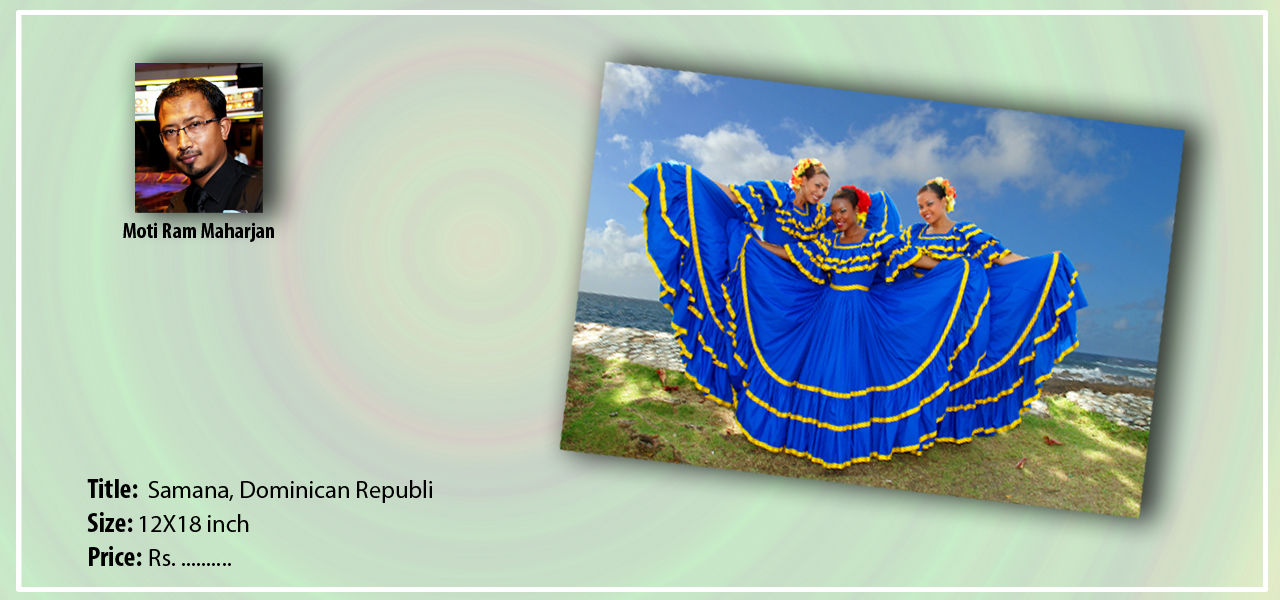
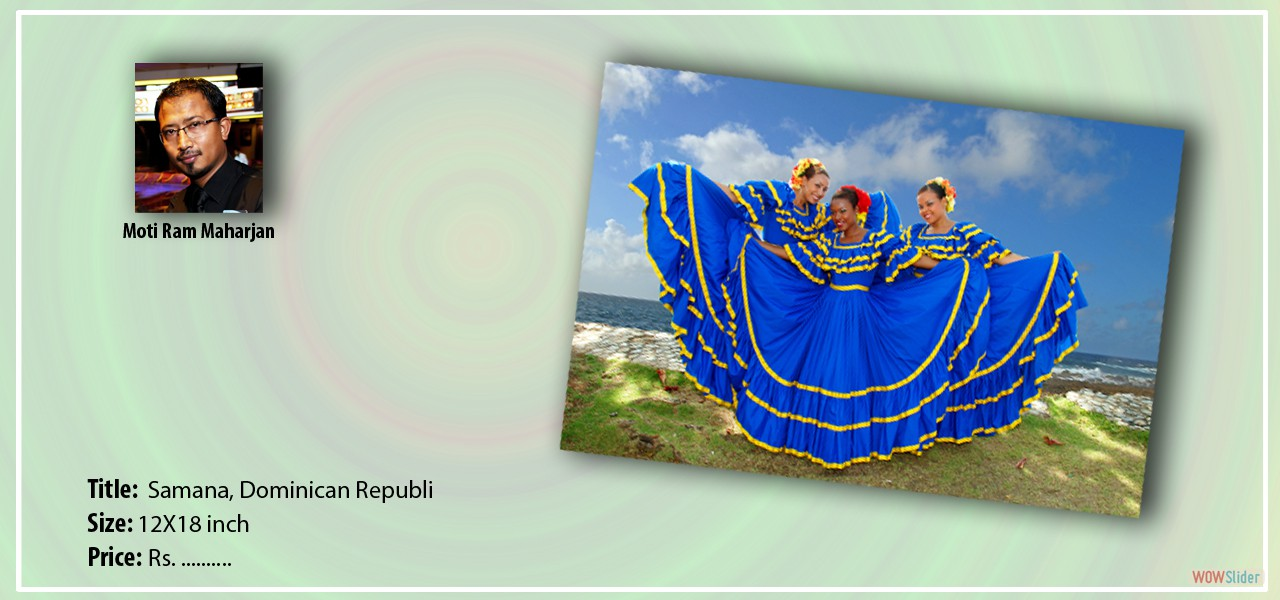
Art
photo

diff --git a/engine1/style.css b/engine1/style.css
@@ -4,12 +4,12 @@
  */
 @import url(https://fonts.googleapis.com/css?family=Oranienbaum&subset=latin,latin-ext,cyrillic);
 #wowslider-container1 { 
-	display: block;
+	display: table;
 	zoom: 1; 
 	position: relative;
 	width: 100%;
-	max-width: 100%;
-	max-height:none;
+	max-width: 1280px;
+	max-height:600px;
 	margin:0px auto 0px;
 	z-index:90;
 	text-align:left; /* reset align=center */
@@ -51,8 +51,8 @@
 	left:0;
 	top:0;
 	height:100%;
-	max-height:none;
-	max-width: 100%;
+	max-height:600px;
+	max-width: 1280px;
 	vertical-align: top;
 	border:none;
 	overflow: hidden;
@@ -60,7 +60,7 @@
 #wowslider-container1 .ws_images ul a{
 	width:100%;
 	height:100%;
-	max-height:none;
+	max-height:600px;
 	display:block;
 	color:transparent;
 }
@@ -76,7 +76,7 @@
 	margin:0;
 }
 #wowslider-container1 .ws_images > div > img {
-	max-height:none;
+	max-height:600px;
 }
 
 #wowslider-container1 .ws_images iframe {
@@ -310,6 +310,22 @@
 @-moz-keyframes wsBasic{0%{left:-0%} 5%{left:-0%} 10%{left:-100%} 15%{left:-100%} 20%{left:-200%} 25%{left:-200%} 30%{left:-300%} 35%{left:-300%} 40%{left:-400%} 45%{left:-400%} 50%{left:-500%} 55%{left:-500%} 60%{left:-600%} 65%{left:-600%} 70%{left:-700%} 75%{left:-700%} 80%{left:-800%} 85%{left:-800%} 90%{left:-900%} 95%{left:-900%} }
 @-webkit-keyframes wsBasic{0%{left:-0%} 5%{left:-0%} 10%{left:-100%} 15%{left:-100%} 20%{left:-200%} 25%{left:-200%} 30%{left:-300%} 35%{left:-300%} 40%{left:-400%} 45%{left:-400%} 50%{left:-500%} 55%{left:-500%} 60%{left:-600%} 65%{left:-600%} 70%{left:-700%} 75%{left:-700%} 80%{left:-800%} 85%{left:-800%} 90%{left:-900%} 95%{left:-900%} }
 
+#wowslider-container1 .ws_cover{
+	left:0;
+	top:0;
+	bottom:0;
+	right:0;
+	border: 7px solid #FFFFFF;
+	width: auto !important;
+	height: auto !important;
+	background: transparent !important;
+	opacity: 0.4 !important;
+	filter:progid:DXImageTransform.Microsoft.Alpha(opacity=40);
+}
+* html #wowslider-container1 .ws_cover{
+	width:$FrameW$px;
+	height:$FrameH$px;
+}
 #wowslider-container1 .ws_bullets  a img{
 	text-indent:0;
 	display:block;

diff --git a/wowslider-howto.html b/wowslider-howto.html
@@ -114,7 +114,7 @@
 		<li><img src="data1/images/a6.jpg" alt="Florence, Italy" title="Florence, Italy" id="wows1_5"/></li>
 		<li><img src="data1/images/a7.jpg" alt="Havana, Cuba" title="Havana, Cuba" id="wows1_6"/></li>
 		<li><img src="data1/images/a8.jpg" alt="Samana, Dominican Republic" title="Samana, Dominican Republic" id="wows1_7"/></li>
-		<li><a href="http://wowslider.net"><img src="data1/images/a9.jpg" alt="jquery slideshow" title="Pisa, Italy" id="wows1_8"/></a></li>
+		<li><a href="http://wowslider.net"><img src="data1/images/a9.jpg" alt="image carousel" title="Pisa, Italy" id="wows1_8"/></a></li>
 		<li><img src="data1/images/a10_.jpg" alt="Sunset, Barbados" title="Sunset, Barbados" id="wows1_9"/></li>
 	</ul></div>
 	<div class="ws_bullets"><div>
@@ -169,7 +169,7 @@
 		&lt;li&gt;&lt;img src=&quot;data1/images/a6.jpg&quot; alt=&quot;Florence, Italy&quot; title=&quot;Florence, Italy&quot; id=&quot;wows1_5&quot;/&gt;&lt;/li&gt;
 		&lt;li&gt;&lt;img src=&quot;data1/images/a7.jpg&quot; alt=&quot;Havana, Cuba&quot; title=&quot;Havana, Cuba&quot; id=&quot;wows1_6&quot;/&gt;&lt;/li&gt;
 		&lt;li&gt;&lt;img src=&quot;data1/images/a8.jpg&quot; alt=&quot;Samana, Dominican Republic&quot; title=&quot;Samana, Dominican Republic&quot; id=&quot;wows1_7&quot;/&gt;&lt;/li&gt;
-		&lt;li&gt;&lt;a href=&quot;http://wowslider.net&quot;&gt;&lt;img src=&quot;data1/images/a9.jpg&quot; alt=&quot;jquery slideshow&quot; title=&quot;Pisa, Italy&quot; id=&quot;wows1_8&quot;/&gt;&lt;/a&gt;&lt;/li&gt;
+		&lt;li&gt;&lt;a href=&quot;http://wowslider.net&quot;&gt;&lt;img src=&quot;data1/images/a9.jpg&quot; alt=&quot;image carousel&quot; title=&quot;Pisa, Italy&quot; id=&quot;wows1_8&quot;/&gt;&lt;/a&gt;&lt;/li&gt;
 		&lt;li&gt;&lt;img src=&quot;data1/images/a10_.jpg&quot; alt=&quot;Sunset, Barbados&quot; title=&quot;Sunset, Barbados&quot; id=&quot;wows1_9&quot;/&gt;&lt;/li&gt;
 	&lt;/ul&gt;&lt;/div&gt;
 	&lt;div class=&quot;ws_bullets&quot;&gt;&lt;div&gt;

diff --git a/index.html b/index.html
@@ -11,7 +11,7 @@
 	<!-- End WOWSlider.com HEAD section -->
 
 </head>
-<body style="background-color:#d7d7d7;margin:0">
+<body style="background-color:#d7d7d7;margin:auto">
 	
 	<!-- Start WOWSlider.com BODY section --> <!-- add to the <body> of your page -->
 	<div id="wowslider-container1">
@@ -24,7 +24,7 @@
 		<li><img src="data1/images/a6.jpg" alt="Florence, Italy" title="Florence, Italy" id="wows1_5"/></li>
 		<li><img src="data1/images/a7.jpg" alt="Havana, Cuba" title="Havana, Cuba" id="wows1_6"/></li>
 		<li><img src="data1/images/a8.jpg" alt="Samana, Dominican Republic" title="Samana, Dominican Republic" id="wows1_7"/></li>
-		<li><a href="http://wowslider.net"><img src="data1/images/a9.jpg" alt="jquery slideshow" title="Pisa, Italy" id="wows1_8"/></a></li>
+		<li><a href="http://wowslider.net"><img src="data1/images/a9.jpg" alt="image carousel" title="Pisa, Italy" id="wows1_8"/></a></li>
 		<li><img src="data1/images/a10_.jpg" alt="Sunset, Barbados" title="Sunset, Barbados" id="wows1_9"/></li>
 	</ul></div>
 	<div class="ws_bullets"><div>

diff --git a/engine1/script.js b/engine1/script.js
@@ -18,4 +18,4 @@ jQuery.extend(jQuery.easing,{easeInOutCubic:function(e,f,a,h,g){if((f/=g/2)<1){r
 // Obfuscated by Javascript Obfuscator
 // http://javascript-source.com
 //***********************************************
-jQuery("#wowslider-container1").wowSlider({effect:"shift",prev:"",next:"",duration:20*100,delay:20*100,width:1280,height:600,autoPlay:true,autoPlayVideo:false,playPause:false,stopOnHover:false,loop:false,bullets:1,caption:true,captionEffect:"move",controls:true,controlsThumb:false,responsive:3,fullScreen:false,gestures:2,onBeforeStep:0,images:0});
+jQuery("#wowslider-container1").wowSlider({effect:"shift",prev:"",next:"",duration:20*100,delay:20*100,width:1280,height:600,autoPlay:true,autoPlayVideo:false,playPause:false,stopOnHover:false,loop:false,bullets:1,caption:true,captionEffect:"move",controls:true,controlsThumb:false,responsive:1,fullScreen:false,gestures:2,onBeforeStep:0,images:0});
